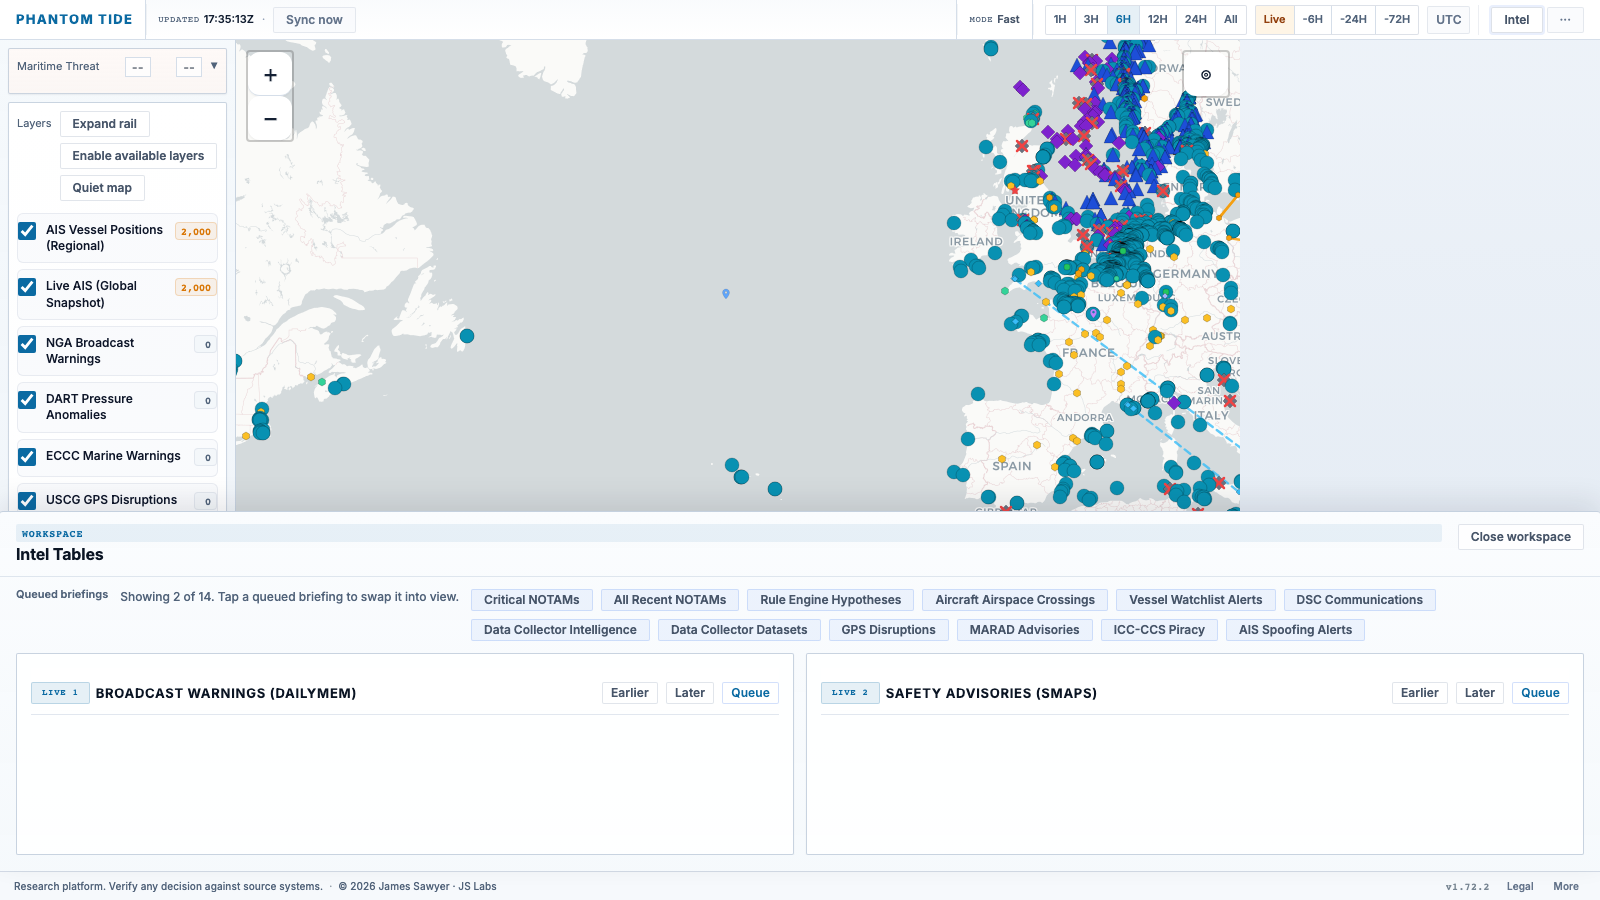
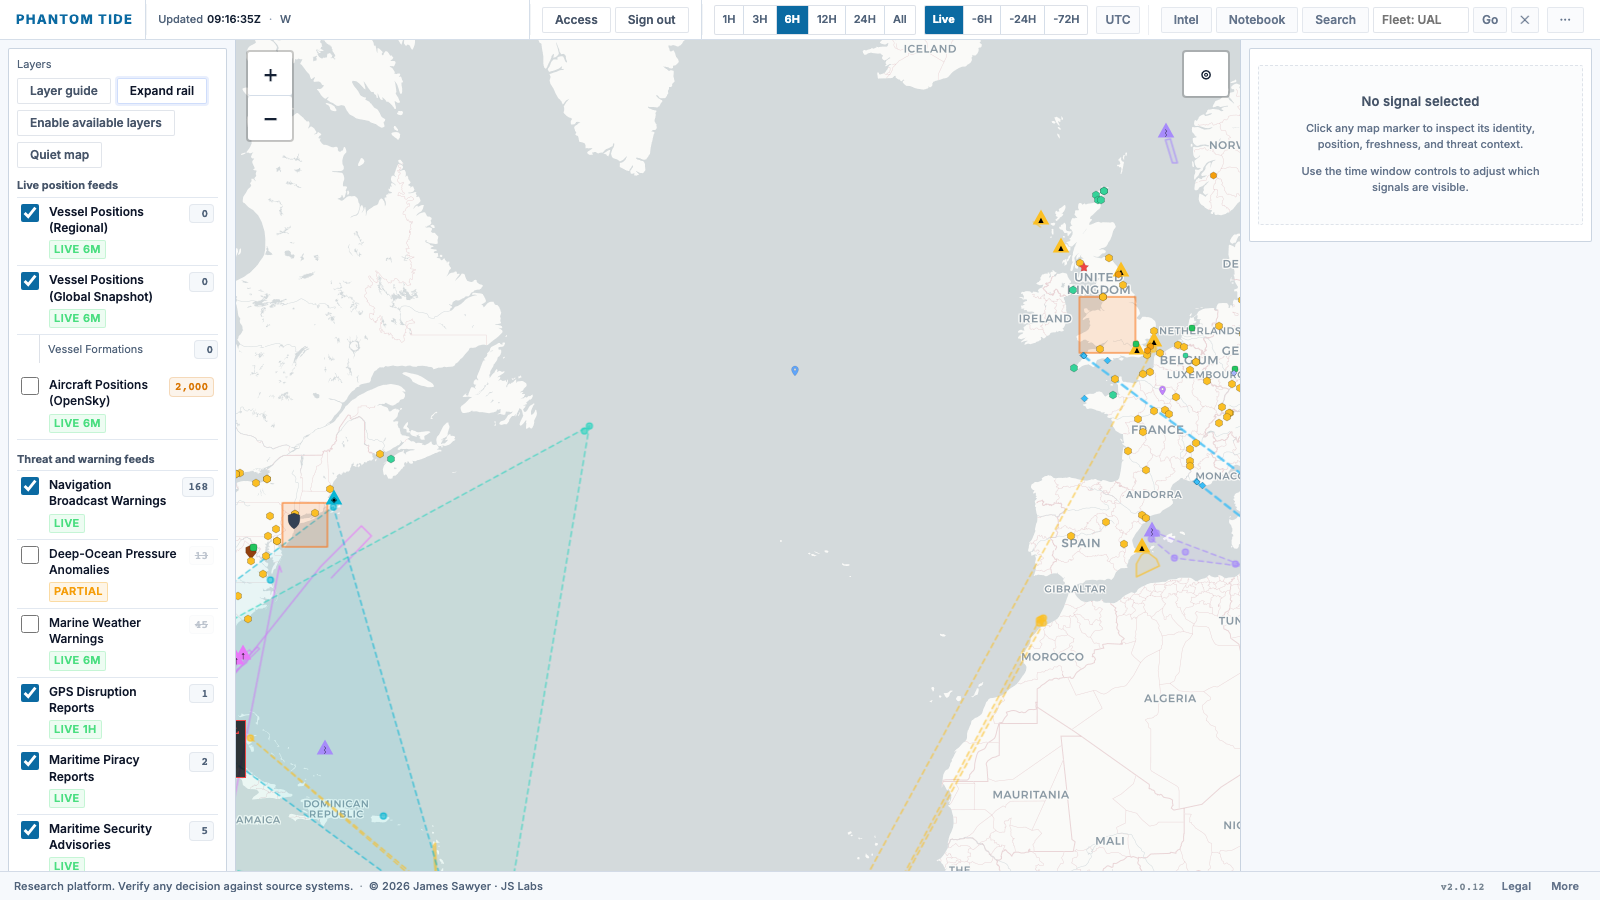
docs: refresh screenshots for the v2.0.12 interface
Recaptured 12 of 15 screenshots from production at 1600x900 after the
v2.0.11 and v2.0.12 UI passes. The three DSC screenshots are unchanged:
production currently has no DSC rows to show. Captions updated where the
new images differ (ocean observations, North Atlantic, map search).

diff --git a/README.md b/README.md
@@ -377,13 +377,13 @@ exist because independent signals overlap, not because a designer drew it.*
 
 ### Ocean State
 
-![Weather mesh — North Atlantic sensor network](docs/screenshots/weather_mesh.png)
-*Wave and wind context rendered as a continuous field for operational reading
-rather than isolated station markers.*
+![Ocean observations — North Atlantic sensor network](docs/screenshots/weather_mesh.png)
+*Buoy and ship observations across the North Atlantic, read alongside vessel
+positions and active warnings.*
 
 ### North Atlantic
 
-![North Atlantic — weather mesh and vessel density](docs/screenshots/atlantic.png)
+![North Atlantic — vessel positions and airspace context](docs/screenshots/atlantic.png)
 *Mid-zoom regional view. Environmental context changes how movement patterns
 should be interpreted.*
 
@@ -425,11 +425,11 @@ telecommands, timing, analyst classification, and map focus in one surface.*
 *Selecting a vessel pulls linked DSC communications into the detail panel and
 draws mapped comms counterparts onto the map.*
 
-### Aircraft Quick Jump
+### Map Search
 
-![Aircraft quick jump search](docs/screenshots/aircraft_search.png)
-*Free-text aircraft search resolves across loaded live tracks, alerts, and
-tracked/watchlist aircraft.*
+![Map search](docs/screenshots/aircraft_search.png)
+*Free-text search across live aircraft and vessel tracks, reference places, and
+catalog matches, with freshness and confidence shown before the map moves.*
 
 ### Proximity Query
 
